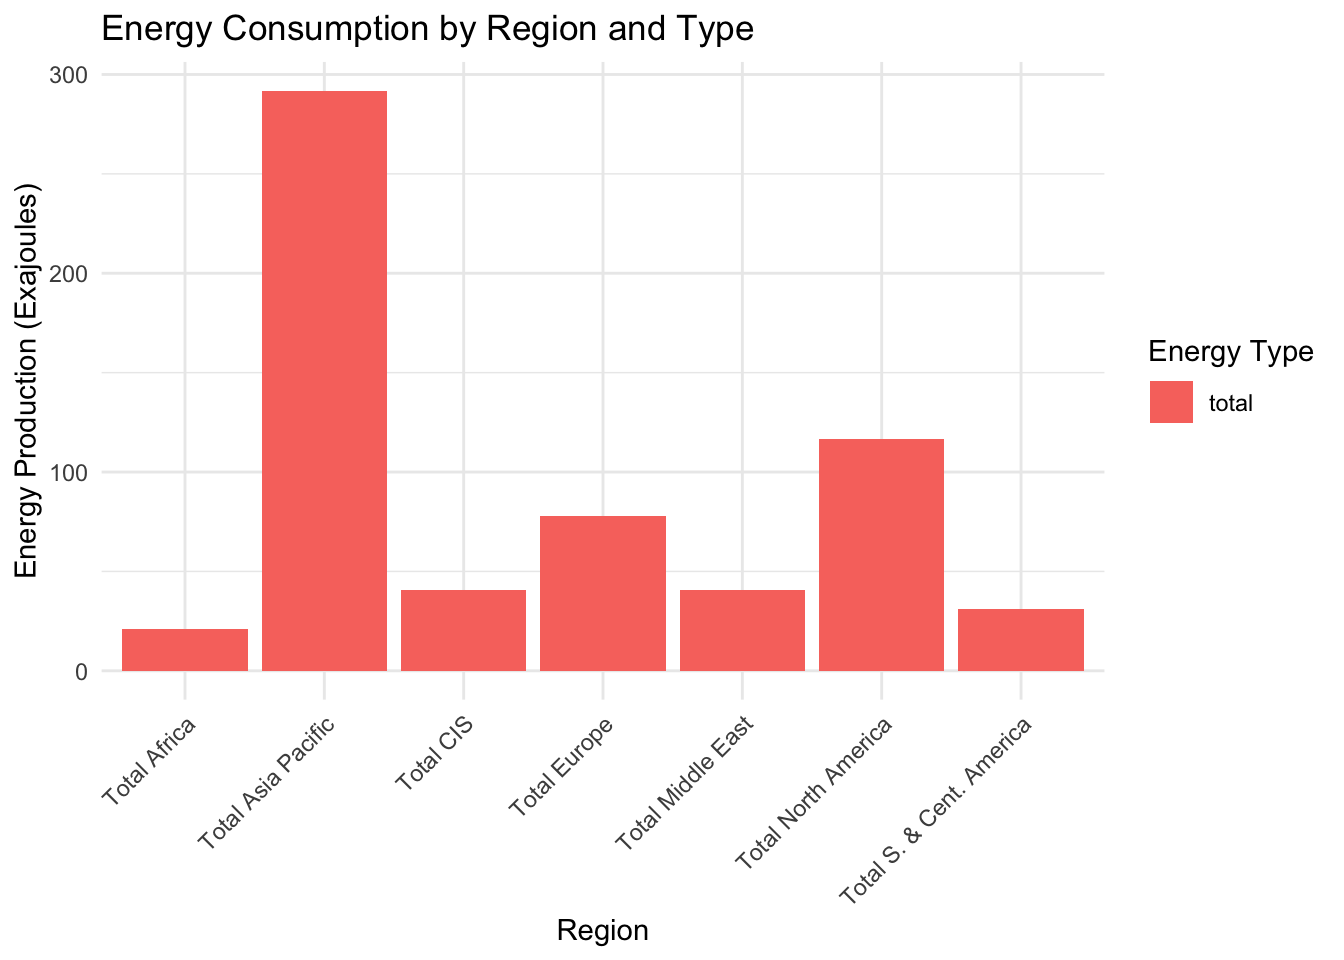
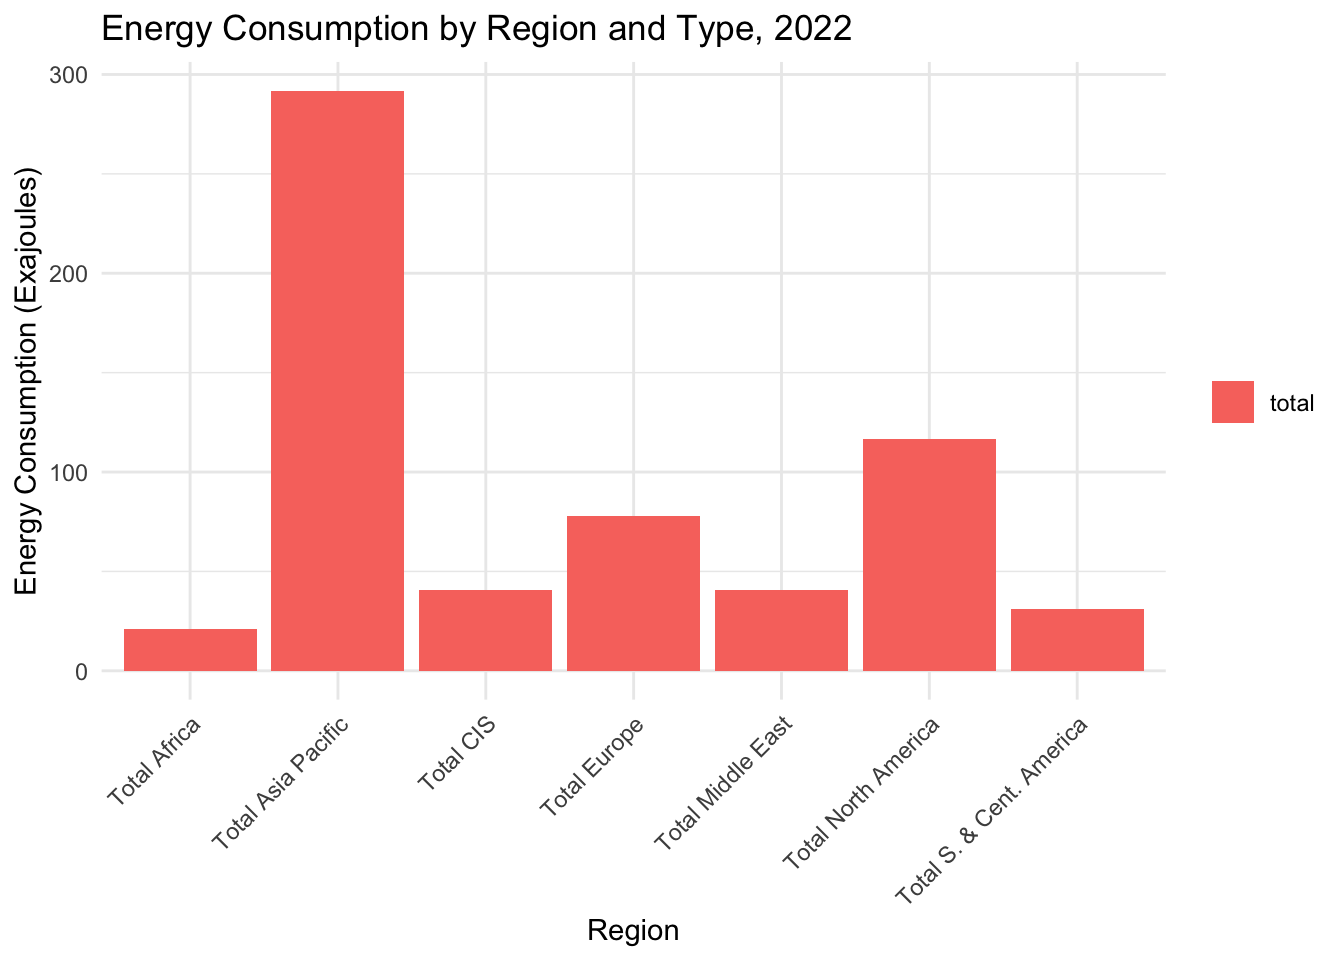
added data to gitignore

diff --git a/HW2-exploration.html b/HW2-exploration.html
@@ -156,43 +156,90 @@ dbl (2): Oil, Total
 <span id="cb4-3"><a href="#cb4-3" aria-hidden="true" tabindex="-1"></a>  <span class="fu">clean_names</span>(<span class="at">case =</span> <span class="st">"lower_camel"</span>) <span class="sc">%&gt;%</span></span>
 <span id="cb4-4"><a href="#cb4-4" aria-hidden="true" tabindex="-1"></a>    <span class="fu">mutate</span>(<span class="fu">across</span>(<span class="sc">-</span>country, as.numeric)) <span class="sc">%&gt;%</span></span>
 <span id="cb4-5"><a href="#cb4-5" aria-hidden="true" tabindex="-1"></a>  <span class="fu">rename</span>(<span class="at">natural_gas =</span> naturalGas) <span class="sc">%&gt;%</span></span>
-<span id="cb4-6"><a href="#cb4-6" aria-hidden="true" tabindex="-1"></a>  <span class="fu">rename</span>(<span class="at">nuclear_energy =</span> nuclearEnergy) <span class="sc">%&gt;%</span></span>
+<span id="cb4-6"><a href="#cb4-6" aria-hidden="true" tabindex="-1"></a>  <span class="fu">rename</span>(<span class="at">nuclear =</span> nuclearEnergy) <span class="sc">%&gt;%</span></span>
 <span id="cb4-7"><a href="#cb4-7" aria-hidden="true" tabindex="-1"></a>  <span class="fu">rename</span>(<span class="at">renewables =</span> renewAbles) <span class="sc">%&gt;%</span></span>
 <span id="cb4-8"><a href="#cb4-8" aria-hidden="true" tabindex="-1"></a>  <span class="fu">rename</span>(<span class="at">hydroelectric =</span> hydroElectric) <span class="sc">%&gt;%</span></span>
 <span id="cb4-9"><a href="#cb4-9" aria-hidden="true" tabindex="-1"></a>  <span class="fu">pivot_longer</span>(<span class="at">cols =</span> <span class="sc">-</span>country, <span class="at">names_to =</span> <span class="st">"energy_type"</span>, <span class="at">values_to =</span> <span class="st">"value"</span>) <span class="sc">%&gt;%</span></span>
 <span id="cb4-10"><a href="#cb4-10" aria-hidden="true" tabindex="-1"></a>  <span class="fu">drop_na</span>()</span></code><button title="Copy to Clipboard" class="code-copy-button"><i class="bi"></i></button></pre></div>
-<div class="cell-output cell-output-stderr">
-<pre><code>Warning: There were 5 warnings in `mutate()`.
-The first warning was:
-ℹ In argument: `across(-country, as.numeric)`.
-Caused by warning:
-! NAs introduced by coercion
-ℹ Run `dplyr::last_dplyr_warnings()` to see the 4 remaining warnings.</code></pre>
-</div>
 </div>
 <div class="cell">
-<div class="sourceCode cell-code" id="cb6"><pre class="sourceCode r code-with-copy"><code class="sourceCode r"><span id="cb6-1"><a href="#cb6-1" aria-hidden="true" tabindex="-1"></a>total_use <span class="ot">&lt;-</span> energy_df <span class="sc">%&gt;%</span></span>
-<span id="cb6-2"><a href="#cb6-2" aria-hidden="true" tabindex="-1"></a>  <span class="fu">filter</span>(<span class="fu">str_detect</span>(country,<span class="st">"Total"</span>)) <span class="sc">%&gt;%</span></span>
-<span id="cb6-3"><a href="#cb6-3" aria-hidden="true" tabindex="-1"></a>  <span class="fu">filter</span>(<span class="fu">str_detect</span>(energy_type, <span class="st">"total"</span>))</span></code><button title="Copy to Clipboard" class="code-copy-button"><i class="bi"></i></button></pre></div>
+<div class="sourceCode cell-code" id="cb5"><pre class="sourceCode r code-with-copy"><code class="sourceCode r"><span id="cb5-1"><a href="#cb5-1" aria-hidden="true" tabindex="-1"></a><span class="co"># filter to total energy use by region</span></span>
+<span id="cb5-2"><a href="#cb5-2" aria-hidden="true" tabindex="-1"></a>total_use <span class="ot">&lt;-</span> energy_df <span class="sc">%&gt;%</span></span>
+<span id="cb5-3"><a href="#cb5-3" aria-hidden="true" tabindex="-1"></a>  <span class="fu">filter</span>(<span class="fu">str_detect</span>(country,<span class="st">"Total"</span>)) <span class="sc">%&gt;%</span></span>
+<span id="cb5-4"><a href="#cb5-4" aria-hidden="true" tabindex="-1"></a>  <span class="fu">filter</span>(<span class="fu">str_detect</span>(energy_type, <span class="st">"total"</span>))</span>
+<span id="cb5-5"><a href="#cb5-5" aria-hidden="true" tabindex="-1"></a></span>
+<span id="cb5-6"><a href="#cb5-6" aria-hidden="true" tabindex="-1"></a></span>
+<span id="cb5-7"><a href="#cb5-7" aria-hidden="true" tabindex="-1"></a><span class="co"># filter to nuclear energy use across countries</span></span>
+<span id="cb5-8"><a href="#cb5-8" aria-hidden="true" tabindex="-1"></a>nuclear_use <span class="ot">&lt;-</span> energy_df <span class="sc">%&gt;%</span></span>
+<span id="cb5-9"><a href="#cb5-9" aria-hidden="true" tabindex="-1"></a>  <span class="fu">filter</span>(<span class="fu">str_detect</span>(energy_type, <span class="st">"nuclear"</span>)) <span class="sc">%&gt;%</span></span>
+<span id="cb5-10"><a href="#cb5-10" aria-hidden="true" tabindex="-1"></a>  <span class="fu">filter</span>(<span class="sc">!</span><span class="fu">str_detect</span>(country,<span class="st">"Total"</span>)) <span class="sc">%&gt;%</span></span>
+<span id="cb5-11"><a href="#cb5-11" aria-hidden="true" tabindex="-1"></a>  <span class="fu">arrange</span>(value)</span>
+<span id="cb5-12"><a href="#cb5-12" aria-hidden="true" tabindex="-1"></a></span>
+<span id="cb5-13"><a href="#cb5-13" aria-hidden="true" tabindex="-1"></a><span class="co"># filter to energy types by region (not totals)</span></span>
+<span id="cb5-14"><a href="#cb5-14" aria-hidden="true" tabindex="-1"></a>country_use <span class="ot">&lt;-</span> energy_df <span class="sc">%&gt;%</span></span>
+<span id="cb5-15"><a href="#cb5-15" aria-hidden="true" tabindex="-1"></a>  <span class="fu">filter</span>(<span class="fu">str_detect</span>(country,<span class="st">"Total"</span>)) <span class="sc">%&gt;%</span></span>
+<span id="cb5-16"><a href="#cb5-16" aria-hidden="true" tabindex="-1"></a>  <span class="fu">filter</span>(<span class="sc">!</span><span class="fu">str_detect</span>(energy_type, <span class="st">"total"</span>))</span></code><button title="Copy to Clipboard" class="code-copy-button"><i class="bi"></i></button></pre></div>
 </div>
 </section>
 <section id="explore" class="level1">
 <h1>Explore</h1>
 <div class="cell">
-<div class="sourceCode cell-code" id="cb7"><pre class="sourceCode r code-with-copy"><code class="sourceCode r"><span id="cb7-1"><a href="#cb7-1" aria-hidden="true" tabindex="-1"></a>total_plot <span class="ot">&lt;-</span> <span class="fu">ggplot</span>(total_use, <span class="fu">aes</span>(<span class="at">x =</span> country, <span class="at">y =</span> value, <span class="at">fill =</span> energy_type)) <span class="sc">+</span></span>
-<span id="cb7-2"><a href="#cb7-2" aria-hidden="true" tabindex="-1"></a>  <span class="fu">geom_col</span>(<span class="at">position =</span> <span class="st">"dodge"</span>) <span class="sc">+</span>  <span class="co"># Dodged bars to compare energy types</span></span>
-<span id="cb7-3"><a href="#cb7-3" aria-hidden="true" tabindex="-1"></a>  <span class="fu">theme_minimal</span>() <span class="sc">+</span></span>
-<span id="cb7-4"><a href="#cb7-4" aria-hidden="true" tabindex="-1"></a>  <span class="fu">labs</span>(<span class="at">title =</span> <span class="st">"Energy Consumption by Region and Type"</span>,</span>
-<span id="cb7-5"><a href="#cb7-5" aria-hidden="true" tabindex="-1"></a>       <span class="at">x =</span> <span class="st">"Region"</span>,</span>
-<span id="cb7-6"><a href="#cb7-6" aria-hidden="true" tabindex="-1"></a>       <span class="at">y =</span> <span class="st">"Energy Production (Exajoules)"</span>,</span>
-<span id="cb7-7"><a href="#cb7-7" aria-hidden="true" tabindex="-1"></a>       <span class="at">fill =</span> <span class="st">"Energy Type"</span>) <span class="sc">+</span></span>
-<span id="cb7-8"><a href="#cb7-8" aria-hidden="true" tabindex="-1"></a>  <span class="fu">theme</span>(<span class="at">axis.text.x =</span> <span class="fu">element_text</span>(<span class="at">angle =</span> <span class="dv">45</span>, <span class="at">hjust =</span> <span class="dv">1</span>)) </span>
-<span id="cb7-9"><a href="#cb7-9" aria-hidden="true" tabindex="-1"></a></span>
-<span id="cb7-10"><a href="#cb7-10" aria-hidden="true" tabindex="-1"></a>total_plot</span></code><button title="Copy to Clipboard" class="code-copy-button"><i class="bi"></i></button></pre></div>
+<div class="sourceCode cell-code" id="cb6"><pre class="sourceCode r code-with-copy"><code class="sourceCode r"><span id="cb6-1"><a href="#cb6-1" aria-hidden="true" tabindex="-1"></a><span class="co"># look at total energy consumption by region of the world</span></span>
+<span id="cb6-2"><a href="#cb6-2" aria-hidden="true" tabindex="-1"></a>total_plot <span class="ot">&lt;-</span> <span class="fu">ggplot</span>(total_use, <span class="fu">aes</span>(<span class="at">x =</span> country, <span class="at">y =</span> value, <span class="at">fill =</span> energy_type)) <span class="sc">+</span></span>
+<span id="cb6-3"><a href="#cb6-3" aria-hidden="true" tabindex="-1"></a>  <span class="fu">geom_col</span>(<span class="at">position =</span> <span class="st">"dodge"</span>) <span class="sc">+</span>  </span>
+<span id="cb6-4"><a href="#cb6-4" aria-hidden="true" tabindex="-1"></a>  <span class="fu">theme_minimal</span>() <span class="sc">+</span></span>
+<span id="cb6-5"><a href="#cb6-5" aria-hidden="true" tabindex="-1"></a>  <span class="fu">labs</span>(<span class="at">title =</span> <span class="st">"Energy Consumption by Region and Type, 2022"</span>,</span>
+<span id="cb6-6"><a href="#cb6-6" aria-hidden="true" tabindex="-1"></a>       <span class="at">x =</span> <span class="st">"Region"</span>,</span>
+<span id="cb6-7"><a href="#cb6-7" aria-hidden="true" tabindex="-1"></a>       <span class="at">y =</span> <span class="st">"Energy Consumption (Exajoules)"</span>,</span>
+<span id="cb6-8"><a href="#cb6-8" aria-hidden="true" tabindex="-1"></a>       <span class="at">fill =</span> <span class="st">""</span>) <span class="sc">+</span></span>
+<span id="cb6-9"><a href="#cb6-9" aria-hidden="true" tabindex="-1"></a>  <span class="fu">theme</span>(<span class="at">axis.text.x =</span> <span class="fu">element_text</span>(<span class="at">angle =</span> <span class="dv">45</span>, <span class="at">hjust =</span> <span class="dv">1</span>)) </span>
+<span id="cb6-10"><a href="#cb6-10" aria-hidden="true" tabindex="-1"></a></span>
+<span id="cb6-11"><a href="#cb6-11" aria-hidden="true" tabindex="-1"></a>total_plot</span></code><button title="Copy to Clipboard" class="code-copy-button"><i class="bi"></i></button></pre></div>
 <div class="cell-output-display">
 <div>
 <figure class="figure">
 <p><img src="HW2-exploration_files/figure-html/unnamed-chunk-5-1.png" class="img-fluid figure-img" width="672"></p>
+</figure>
+</div>
+</div>
+</div>
+<div class="cell">
+<div class="sourceCode cell-code" id="cb7"><pre class="sourceCode r code-with-copy"><code class="sourceCode r"><span id="cb7-1"><a href="#cb7-1" aria-hidden="true" tabindex="-1"></a><span class="co"># look at country-specific nuclear energy use</span></span>
+<span id="cb7-2"><a href="#cb7-2" aria-hidden="true" tabindex="-1"></a>nuclear_plot <span class="ot">&lt;-</span> <span class="fu">ggplot</span>(nuclear_use, <span class="fu">aes</span>(<span class="at">x =</span> country, <span class="at">y =</span> value, <span class="at">fill =</span> energy_type)) <span class="sc">+</span></span>
+<span id="cb7-3"><a href="#cb7-3" aria-hidden="true" tabindex="-1"></a>  <span class="fu">geom_col</span>(<span class="at">position =</span> <span class="st">"dodge"</span>) <span class="sc">+</span>  </span>
+<span id="cb7-4"><a href="#cb7-4" aria-hidden="true" tabindex="-1"></a>  <span class="fu">theme_minimal</span>() <span class="sc">+</span></span>
+<span id="cb7-5"><a href="#cb7-5" aria-hidden="true" tabindex="-1"></a>  <span class="fu">labs</span>(<span class="at">title =</span> <span class="st">"Nuclear Energy Consumption by Country, 2022"</span>,</span>
+<span id="cb7-6"><a href="#cb7-6" aria-hidden="true" tabindex="-1"></a>       <span class="at">x =</span> <span class="st">"Country"</span>,</span>
+<span id="cb7-7"><a href="#cb7-7" aria-hidden="true" tabindex="-1"></a>       <span class="at">y =</span> <span class="st">"Nuclear Energy Consumption (Exajoules)"</span>,</span>
+<span id="cb7-8"><a href="#cb7-8" aria-hidden="true" tabindex="-1"></a>       <span class="at">fill =</span> <span class="st">""</span>) <span class="sc">+</span></span>
+<span id="cb7-9"><a href="#cb7-9" aria-hidden="true" tabindex="-1"></a>  <span class="fu">theme</span>(<span class="at">axis.text.x =</span> <span class="fu">element_text</span>(<span class="at">angle =</span> <span class="dv">45</span>, <span class="at">hjust =</span> <span class="dv">1</span>)) <span class="sc">+</span></span>
+<span id="cb7-10"><a href="#cb7-10" aria-hidden="true" tabindex="-1"></a>  <span class="fu">coord_flip</span>()</span>
+<span id="cb7-11"><a href="#cb7-11" aria-hidden="true" tabindex="-1"></a></span>
+<span id="cb7-12"><a href="#cb7-12" aria-hidden="true" tabindex="-1"></a>nuclear_plot</span></code><button title="Copy to Clipboard" class="code-copy-button"><i class="bi"></i></button></pre></div>
+<div class="cell-output-display">
+<div>
+<figure class="figure">
+<p><img src="HW2-exploration_files/figure-html/unnamed-chunk-6-1.png" class="img-fluid figure-img" width="672"></p>
+</figure>
+</div>
+</div>
+</div>
+<div class="cell">
+<div class="sourceCode cell-code" id="cb8"><pre class="sourceCode r code-with-copy"><code class="sourceCode r"><span id="cb8-1"><a href="#cb8-1" aria-hidden="true" tabindex="-1"></a>countries_plot <span class="ot">&lt;-</span> <span class="fu">ggplot</span>(country_use, <span class="fu">aes</span>(<span class="at">x =</span> country, <span class="at">y =</span> value, <span class="at">fill =</span> energy_type)) <span class="sc">+</span></span>
+<span id="cb8-2"><a href="#cb8-2" aria-hidden="true" tabindex="-1"></a>  <span class="fu">geom_bar</span>(<span class="at">stat =</span> <span class="st">"identity"</span>) <span class="sc">+</span>  </span>
+<span id="cb8-3"><a href="#cb8-3" aria-hidden="true" tabindex="-1"></a>  <span class="fu">theme_minimal</span>() <span class="sc">+</span></span>
+<span id="cb8-4"><a href="#cb8-4" aria-hidden="true" tabindex="-1"></a>  <span class="fu">labs</span>(<span class="at">title =</span> <span class="st">"Proportion of Energy Consumption by Type, per Country, 2022"</span>,</span>
+<span id="cb8-5"><a href="#cb8-5" aria-hidden="true" tabindex="-1"></a>       <span class="at">x =</span> <span class="st">"Country"</span>,</span>
+<span id="cb8-6"><a href="#cb8-6" aria-hidden="true" tabindex="-1"></a>       <span class="at">y =</span> <span class="st">"Energy Consumption (Exajoules)"</span>,</span>
+<span id="cb8-7"><a href="#cb8-7" aria-hidden="true" tabindex="-1"></a>       <span class="at">fill =</span> <span class="st">"Energy Type"</span>) <span class="sc">+</span></span>
+<span id="cb8-8"><a href="#cb8-8" aria-hidden="true" tabindex="-1"></a>  <span class="fu">theme</span>(<span class="at">axis.text.x =</span> <span class="fu">element_text</span>(<span class="at">angle =</span> <span class="dv">45</span>, <span class="at">hjust =</span> <span class="dv">1</span>)) <span class="sc">+</span></span>
+<span id="cb8-9"><a href="#cb8-9" aria-hidden="true" tabindex="-1"></a>  <span class="fu">coord_flip</span>()</span>
+<span id="cb8-10"><a href="#cb8-10" aria-hidden="true" tabindex="-1"></a></span>
+<span id="cb8-11"><a href="#cb8-11" aria-hidden="true" tabindex="-1"></a>countries_plot</span></code><button title="Copy to Clipboard" class="code-copy-button"><i class="bi"></i></button></pre></div>
+<div class="cell-output-display">
+<div>
+<figure class="figure">
+<p><img src="HW2-exploration_files/figure-html/unnamed-chunk-7-1.png" class="img-fluid figure-img" width="672"></p>
 </figure>
 </div>
 </div>
